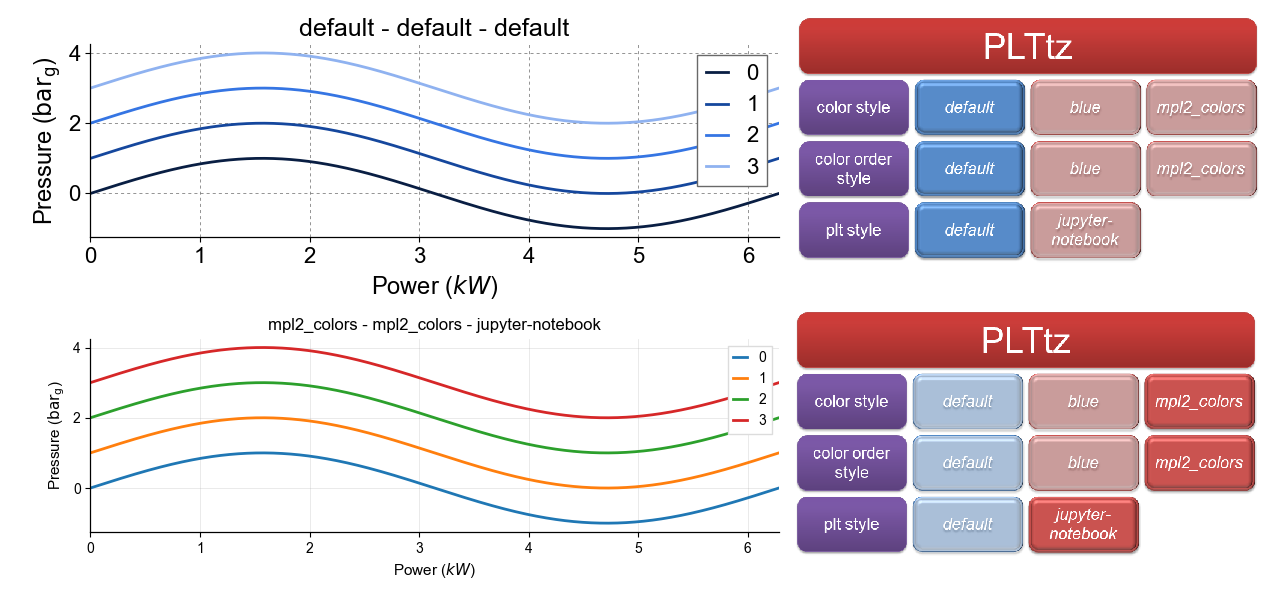
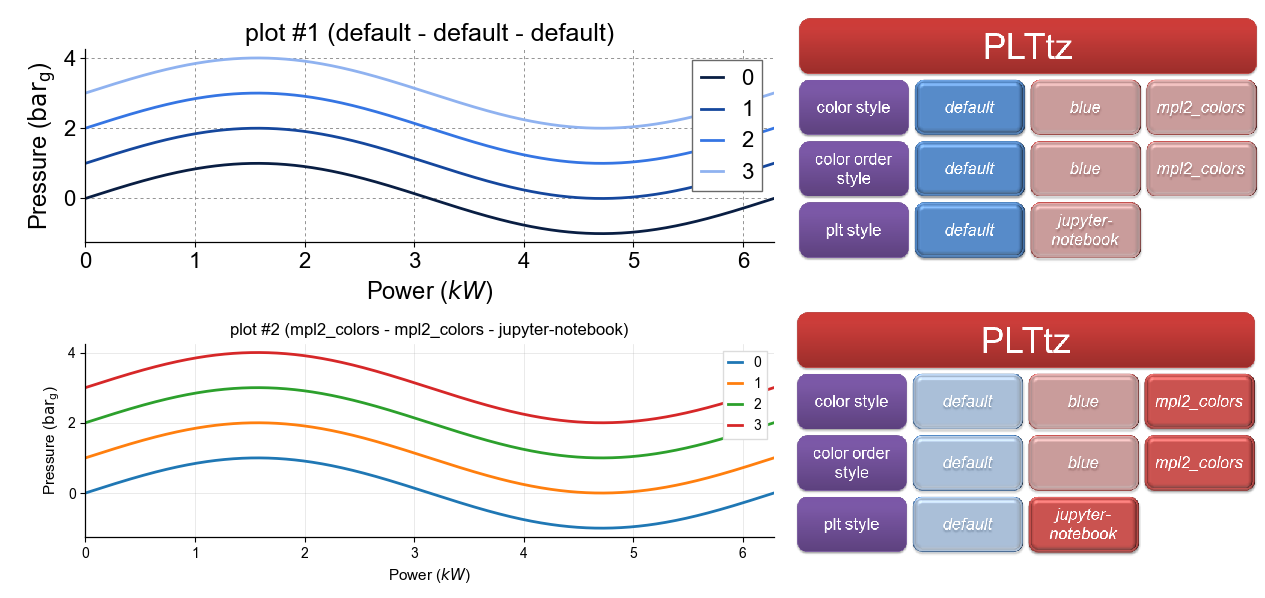
update img and codes in use

diff --git a/mplstyle/examples/trigonometric_functions.py b/mplstyle/examples/trigonometric_functions.py
@@ -28,7 +28,7 @@ for c in range(4):
     ax0.plot(x, y, label=c)
 
 # labeling axises, putting legend and title
-ax0.set_title('default - default - default')
+ax0.set_title('plot #1 (default - default - default)')
 ax0.set_ylabel(r'Pressure ($\mathrm{bar}_{\mathrm{g}}$)')
 ax0.set_xlabel(r'Power ($kW$)')
 ax0.legend()
@@ -47,7 +47,7 @@ for c1 in range(4):
     y1 = np.sin(x1) + c1
     ax1.plot(x1, y1, label=c1)
 
-ax1.set_title('mpl2_colors - mpl2_colors - jupyter-notebook')
+ax1.set_title('plot #2 (mpl2_colors - mpl2_colors - jupyter-notebook)')
 ax1.set_ylabel(r'Pressure ($\mathrm{bar}_{\mathrm{g}}$)')
 ax1.set_xlabel(r'Power ($kW$)')
 ax1.legend()
@@ -69,7 +69,7 @@ for c2 in range(4):
     y2 = np.sin(x2) + c2
     ax2.plot(x2, y2, label=c2)
 
-ax2.set_title('mpl2_colors - mpl2_colors - default')
+ax2.set_title('plot #3 (mpl2_colors - mpl2_colors - default)')
 ax2.set_ylabel(r'Pressure ($\mathrm{bar}_{\mathrm{g}}$)')
 ax2.set_xlabel(r'Power ($kW$)')
 ax2.legend()
@@ -86,7 +86,7 @@ for c3 in range(4):
     y3 = np.sin(x3) + c3
     ax3.plot(x3, y3, label=c3)
 
-ax3.set_title('mpl2_colors - mpl2_colors - default')
+ax3.set_title('plot #4 (default - default - default)')
 ax3.set_ylabel(r'Pressure ($\mathrm{bar}_{\mathrm{g}}$)')
 ax3.set_xlabel(r'Power ($kW$)')
 ax3.legend()
